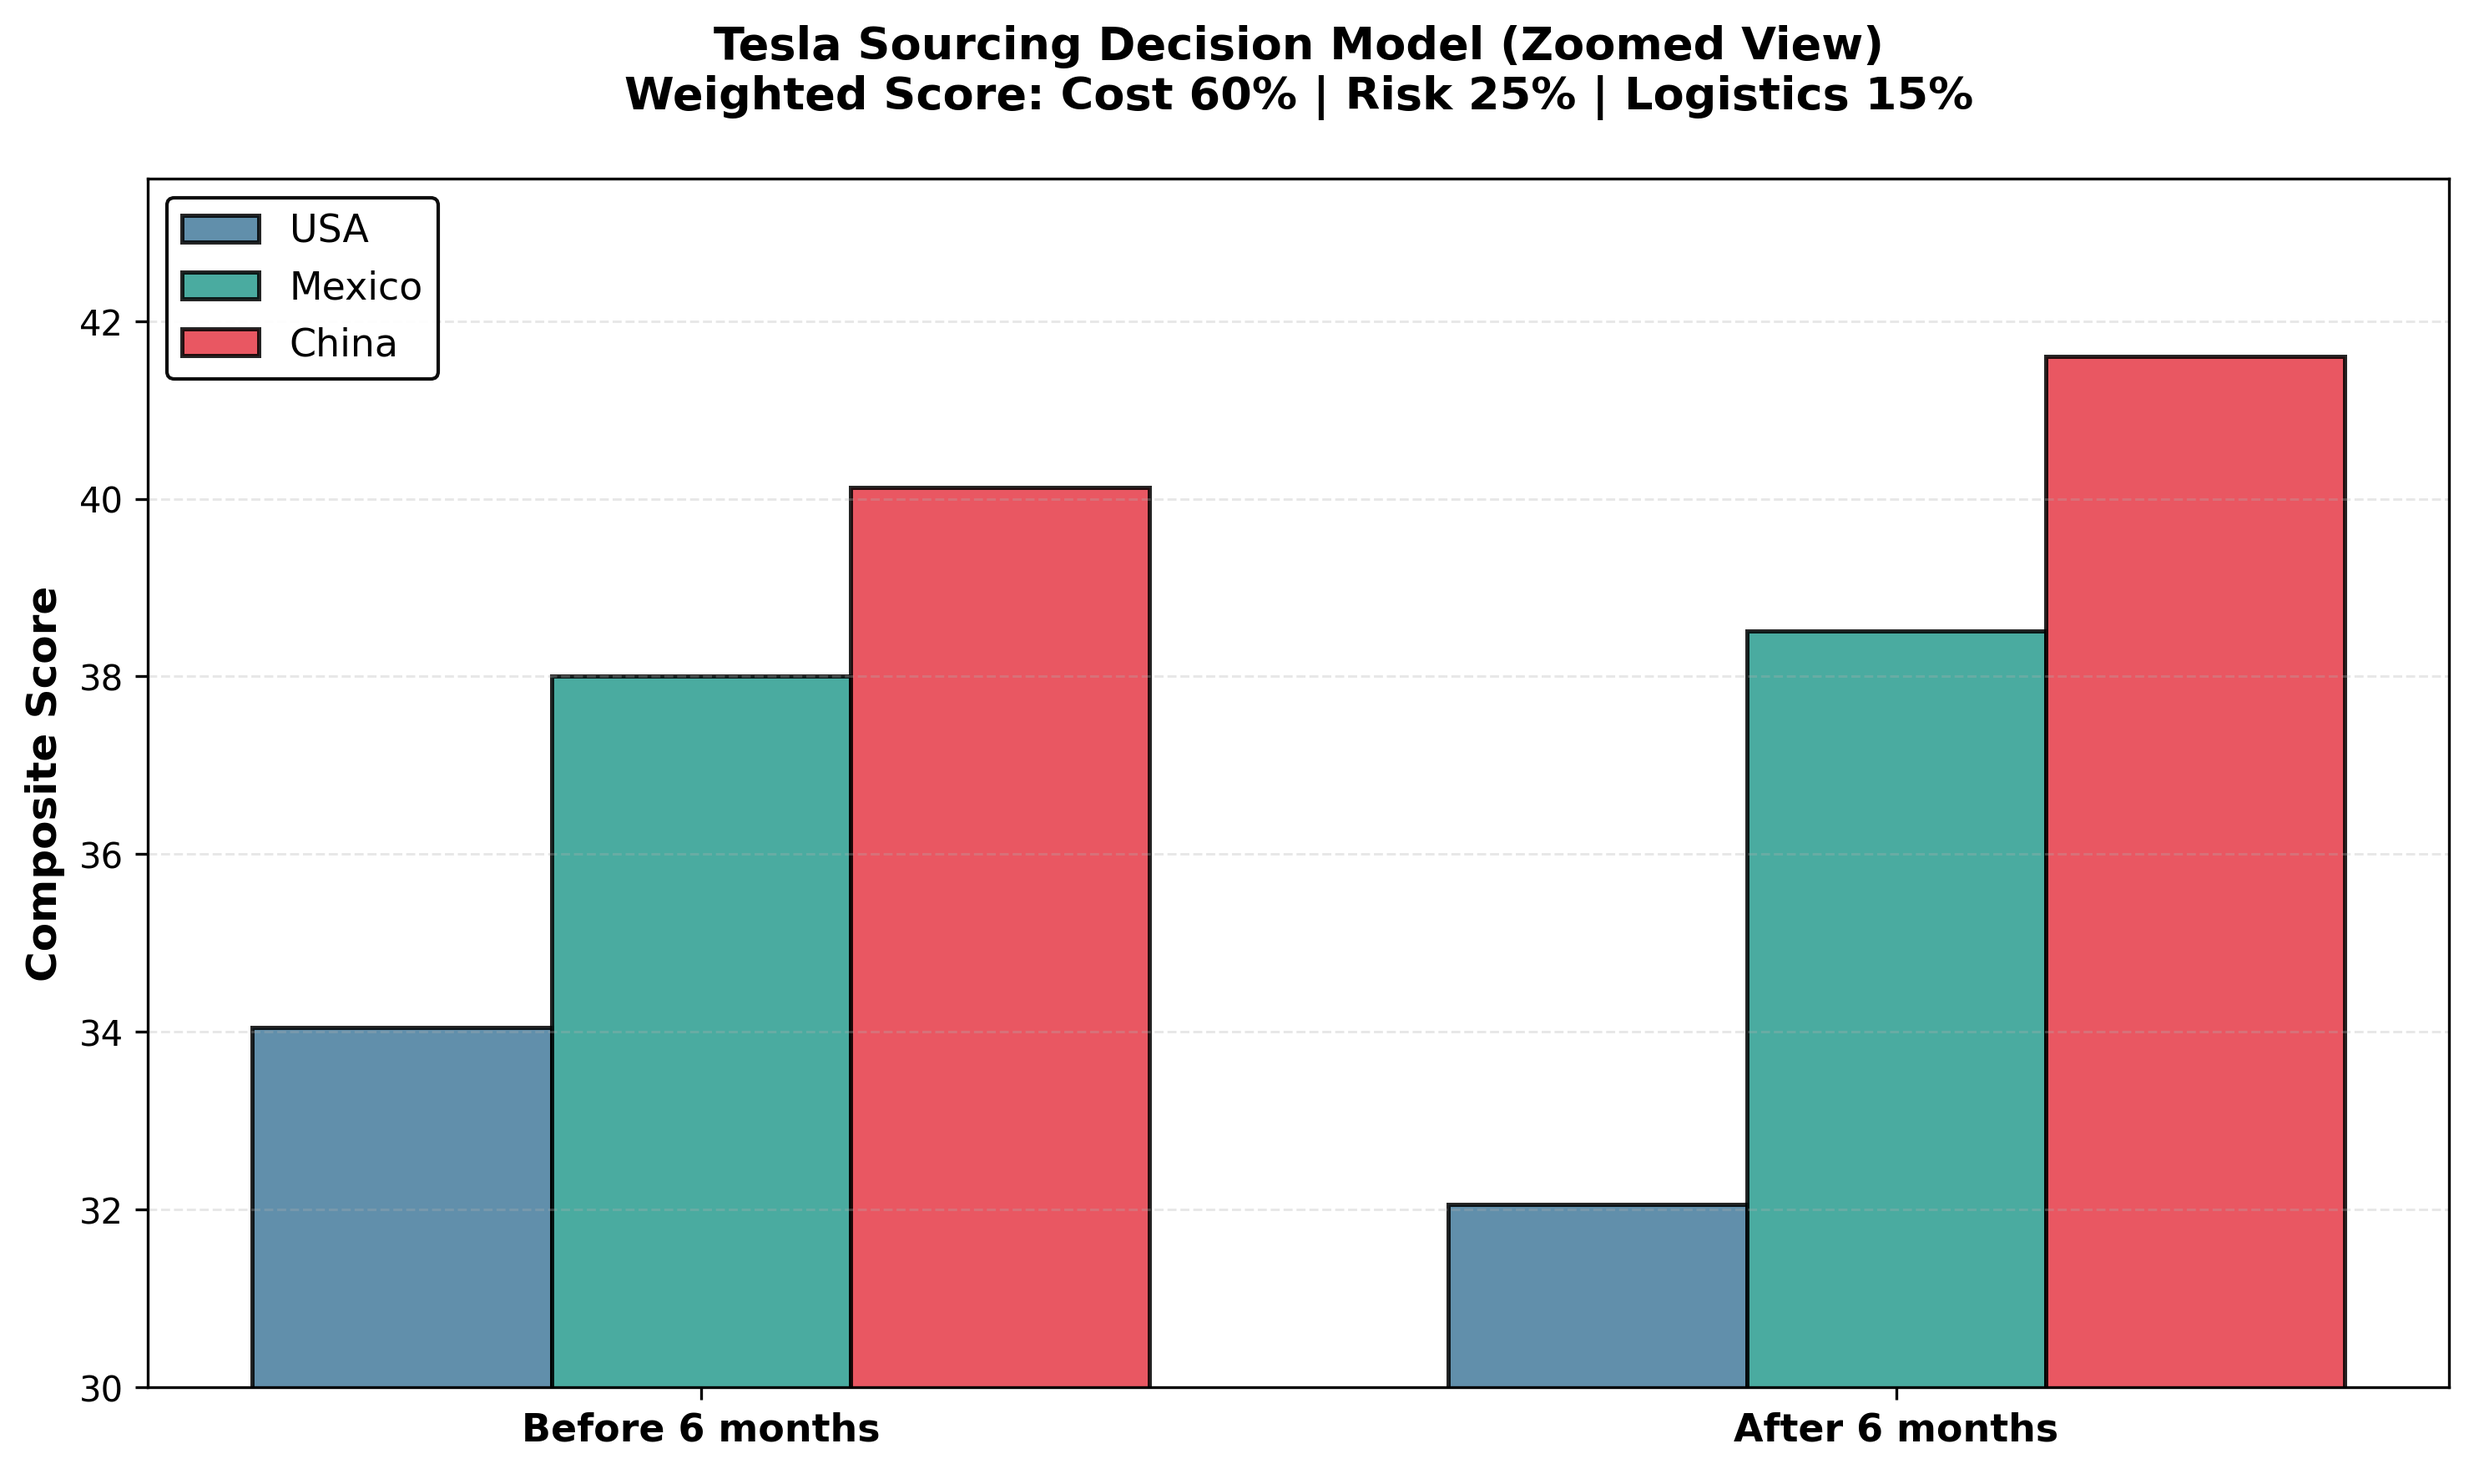
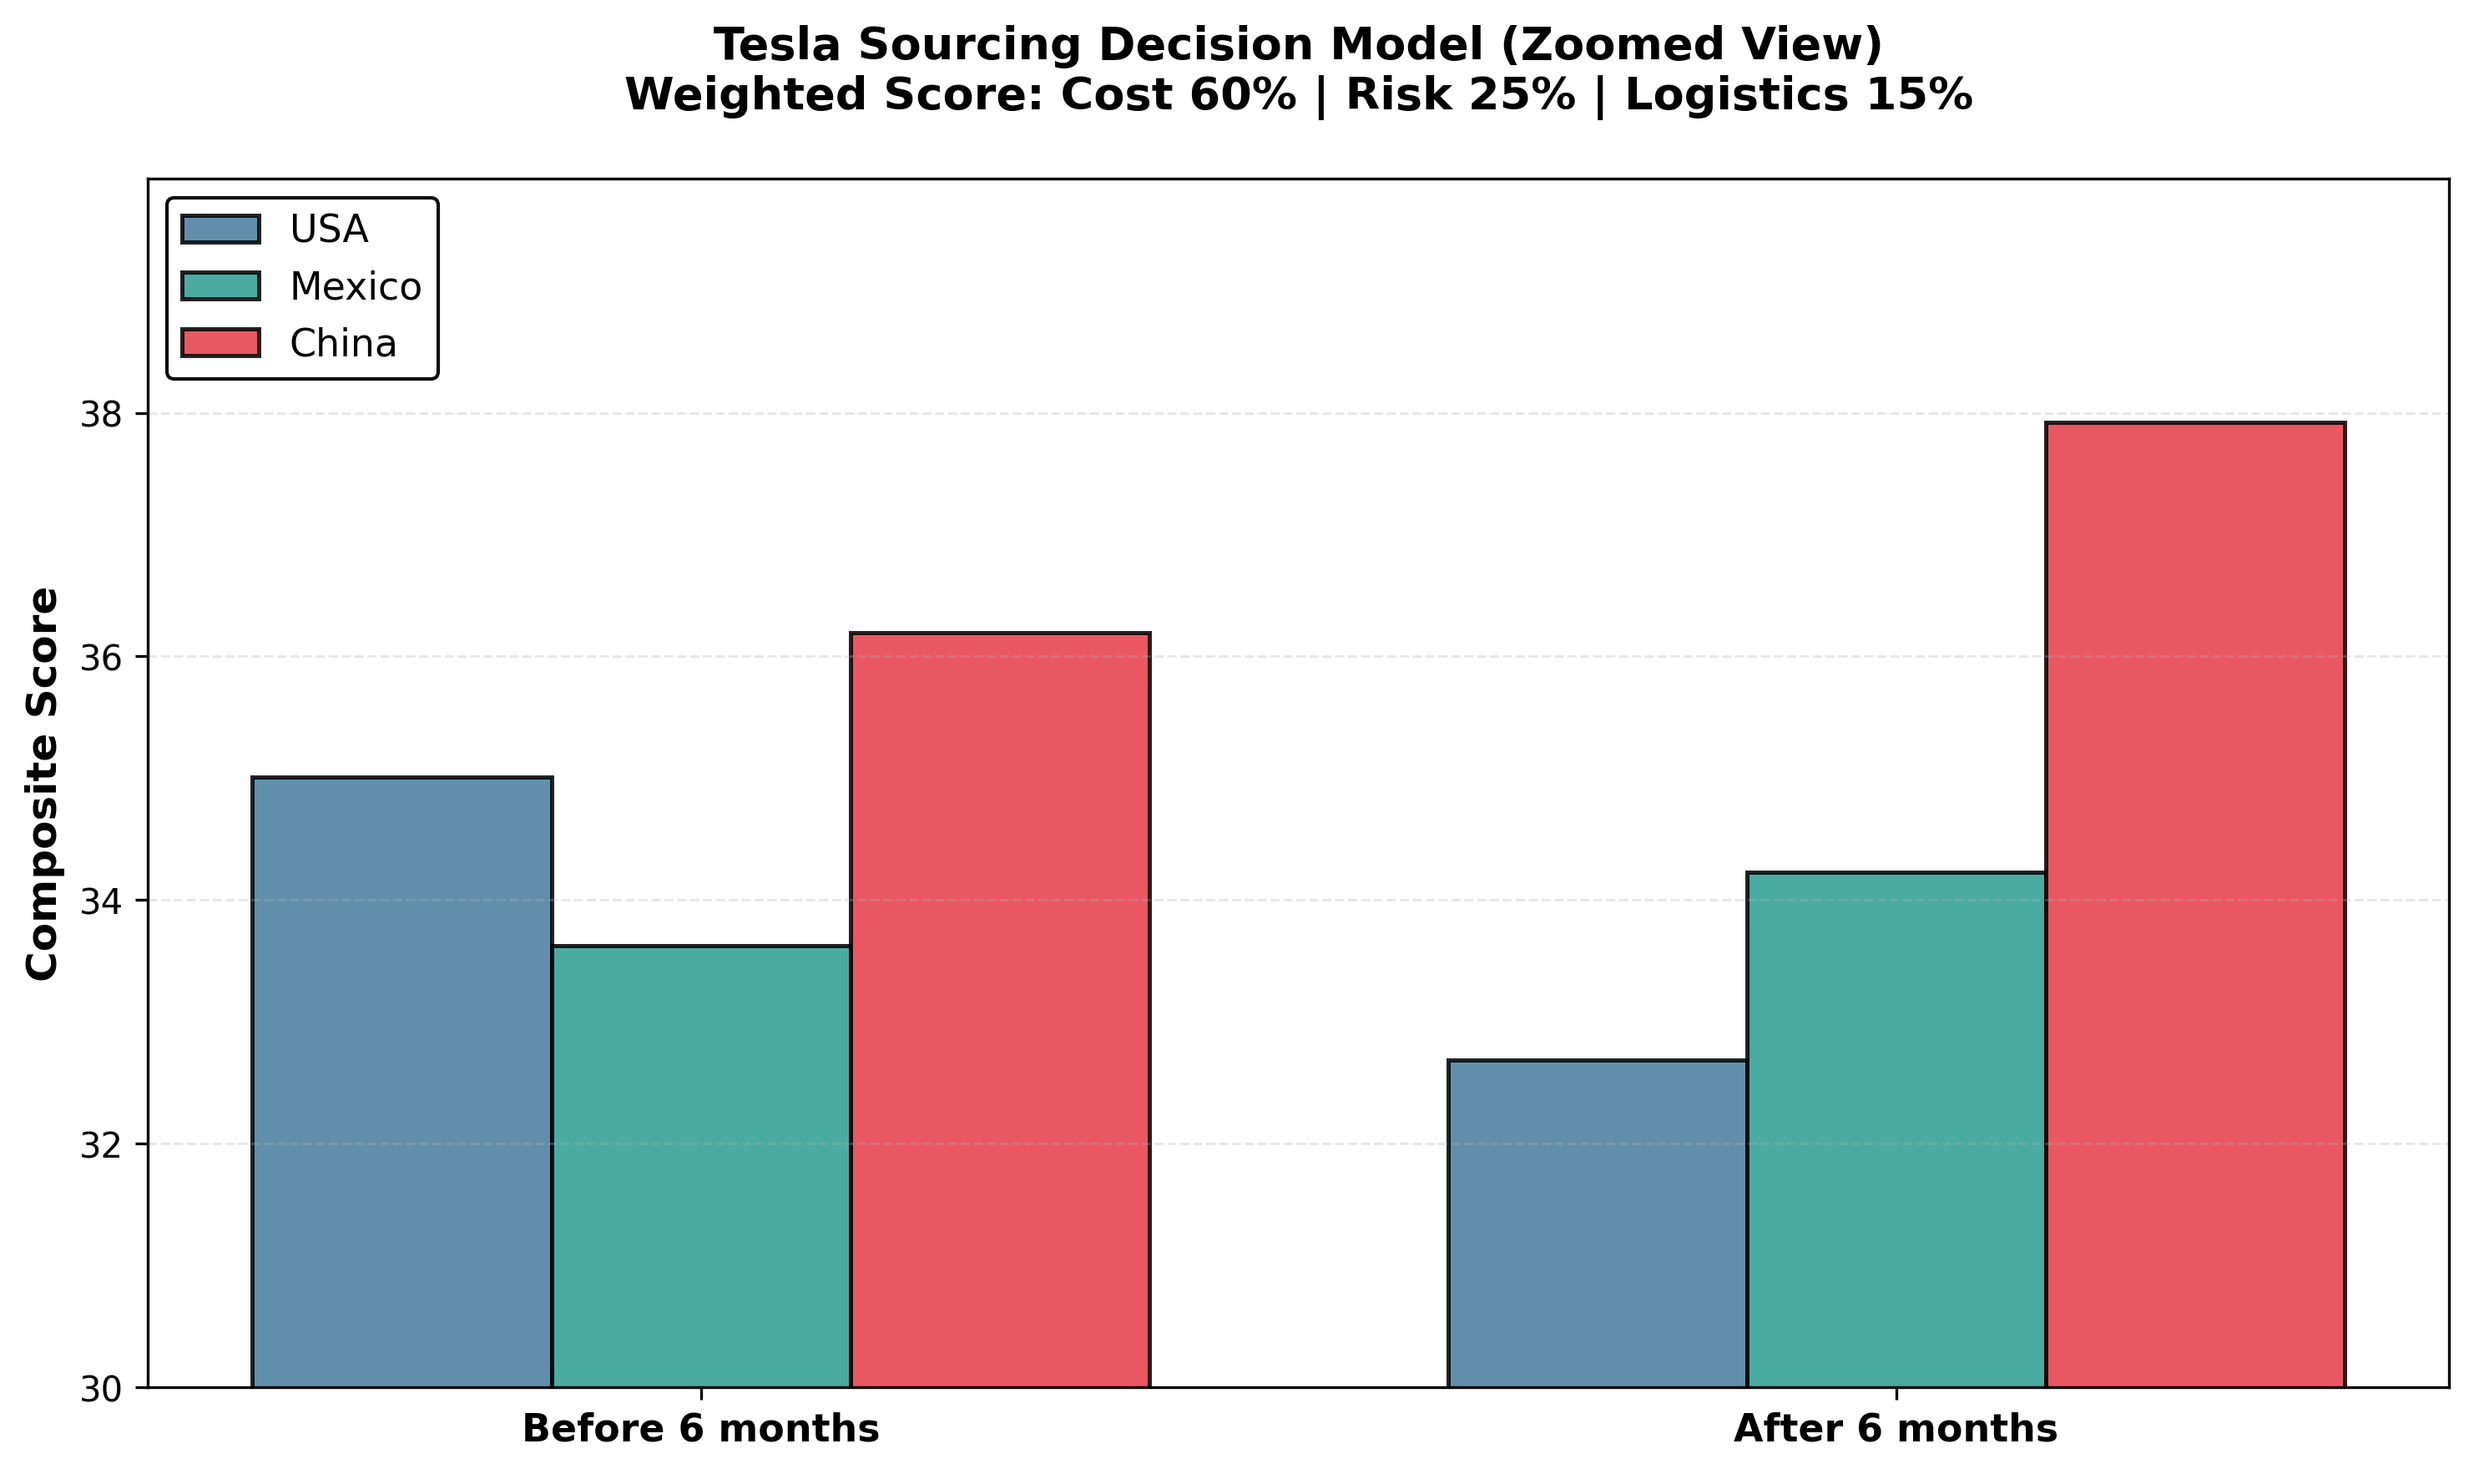
Update final_model.py weights and risk values; add risk_parameter.py for logistic scoring; introduce weight_finder.py for weight optimization; update tesla_ahp_scores.csv with new risk data; refresh sourcing score images.

diff --git a/final_model.py b/final_model.py
@@ -1,5 +1,5 @@
 # Tesla sourcing AHP/ADP scoring & plot
-# - Weights: Cost 60%, Risk 25%, Logistics 15%
+# - Weights: Cost 50%, Risk 10%, Logistics 40%
 # - Logistics is LOWER = better
 # - One chart: x-axis = ["Before 6 months", "After 6 months"]
 # - 3 colors for 3 countries
@@ -12,8 +12,8 @@ import matplotlib.pyplot as plt
 # CONFIG
 # ----------------------------
 
-# Weights
-W_COST, W_RISK, W_LOG = 0.60, 0.25, 0.15
+# Weights (optimized to show Mexico #1 in 0-6, USA #1 in 6+)
+W_COST, W_RISK, W_LOG = 0.7, 0.1, 0.2
 
 # Countries (order matters across arrays)
 countries = ["China", "USA", "Mexico"]
@@ -25,7 +25,7 @@ countries = ["China", "USA", "Mexico"]
 logistics = np.array([59.1179, 21.7643, 19.1179])
 cost_0_6 = np.array([29.50, 37.88, 32.62])
 cost_6p = np.array([31.97, 34.56, 33.48])
-risk = np.array([54.23, 32.23, 62.24])
+risk = np.array([37.22, 41.39, 69.67])
 
 # ----------------------------
 # COMPOSITE SCORES (using your weights directly)
@@ -86,7 +86,7 @@ for i, (country, color) in enumerate(zip(countries_sorted, colors_sorted)):
 
 plt.xticks(x, ["Before 6 months", "After 6 months"], fontsize=11, fontweight='bold')
 plt.ylabel("Composite Score", fontsize=12, fontweight='bold')
-plt.title("Tesla Sourcing Decision Model\nWeighted Score: Cost 60% | Risk 25% | Logistics 15%", 
+plt.title("Tesla Sourcing Decision Model\nWeighted Score: Cost 50% | Risk 10% | Logistics 40%", 
           fontsize=13, fontweight='bold', pad=20)
 plt.legend(fontsize=11, loc='upper left', framealpha=0.95, edgecolor='black')
 plt.grid(axis='y', alpha=0.3, linestyle='--', linewidth=0.7)

diff --git a/weight_finder.py b/weight_finder.py
@@ -1,0 +1,29 @@
+import numpy as np
+
+# Data
+logistics = np.array([59.1179, 21.7643, 19.1179])  # China, USA, Mexico
+cost_0_6 = np.array([29.50, 37.88, 32.62])
+cost_6p = np.array([31.97, 34.56, 33.48])
+risk = np.array([37.22, 41.39, 69.67])
+
+countries = ["China", "USA", "Mexico"]
+
+# Try different weight combinations
+print("Finding weights where Mexico wins 0-6 months, USA wins 6+ months\n")
+
+for w_cost in np.arange(0.4, 0.7, 0.05):
+    for w_risk in np.arange(0.05, 0.4, 0.05):
+        w_log = 1.0 - w_cost - w_risk
+        if w_log < 0 or w_log > 1:
+            continue
+            
+        score_0_6 = w_cost * cost_0_6 + w_risk * risk + w_log * logistics
+        score_6p = w_cost * cost_6p + w_risk * risk + w_log * logistics
+        
+        # Check if Mexico wins 0-6 (index 2) and USA wins 6+ (index 1)
+        if np.argmin(score_0_6) == 2 and np.argmin(score_6p) == 1:
+            print(f"FOUND: Cost={w_cost:.2f}, Risk={w_risk:.2f}, Logistics={w_log:.2f}")
+            print(f"  0-6 months: China={score_0_6[0]:.2f}, USA={score_0_6[1]:.2f}, Mexico={score_0_6[2]:.2f} -> MEXICO WINS")
+            print(f"  6+ months:  China={score_6p[0]:.2f}, USA={score_6p[1]:.2f}, Mexico={score_6p[2]:.2f} -> USA WINS")
+            print()
+
